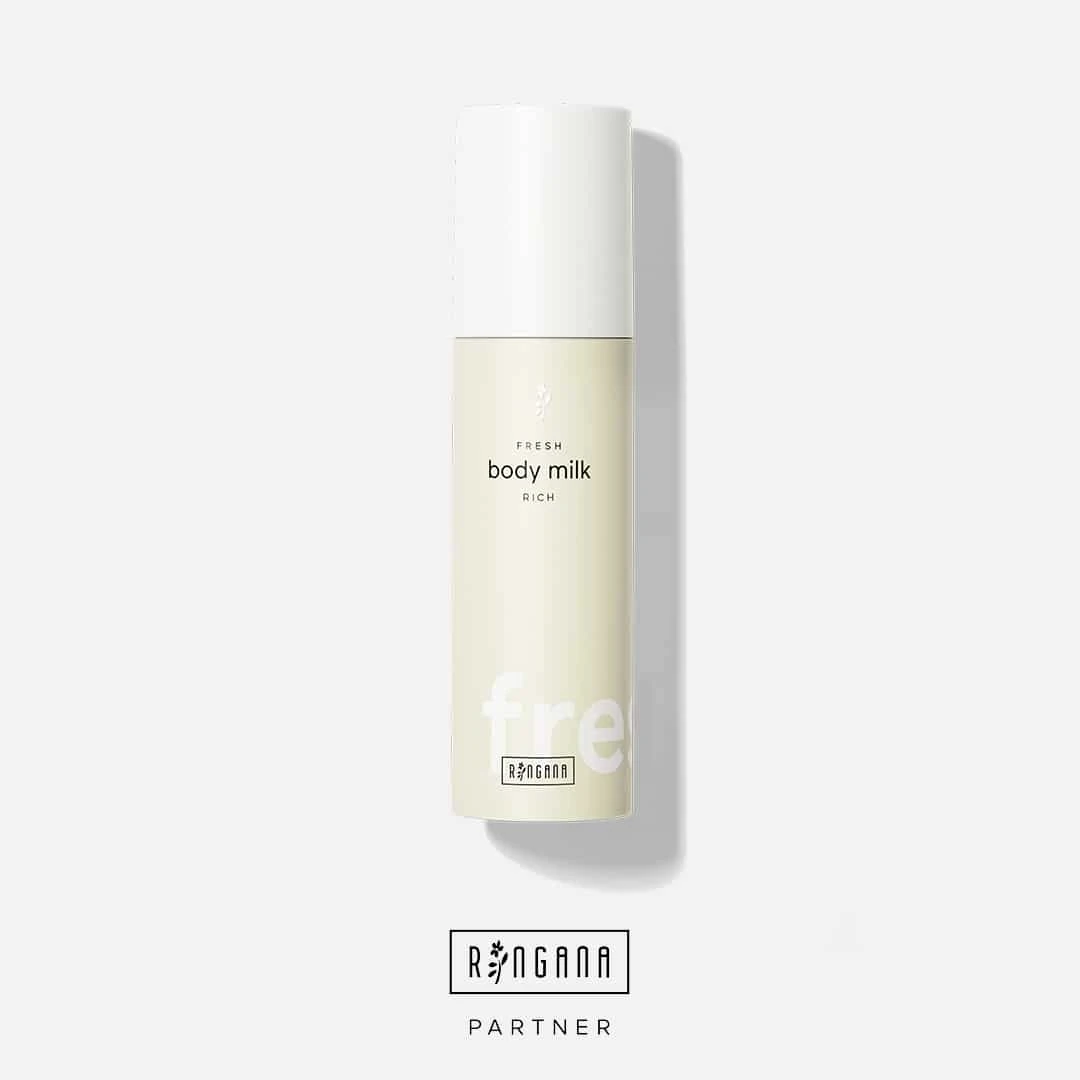
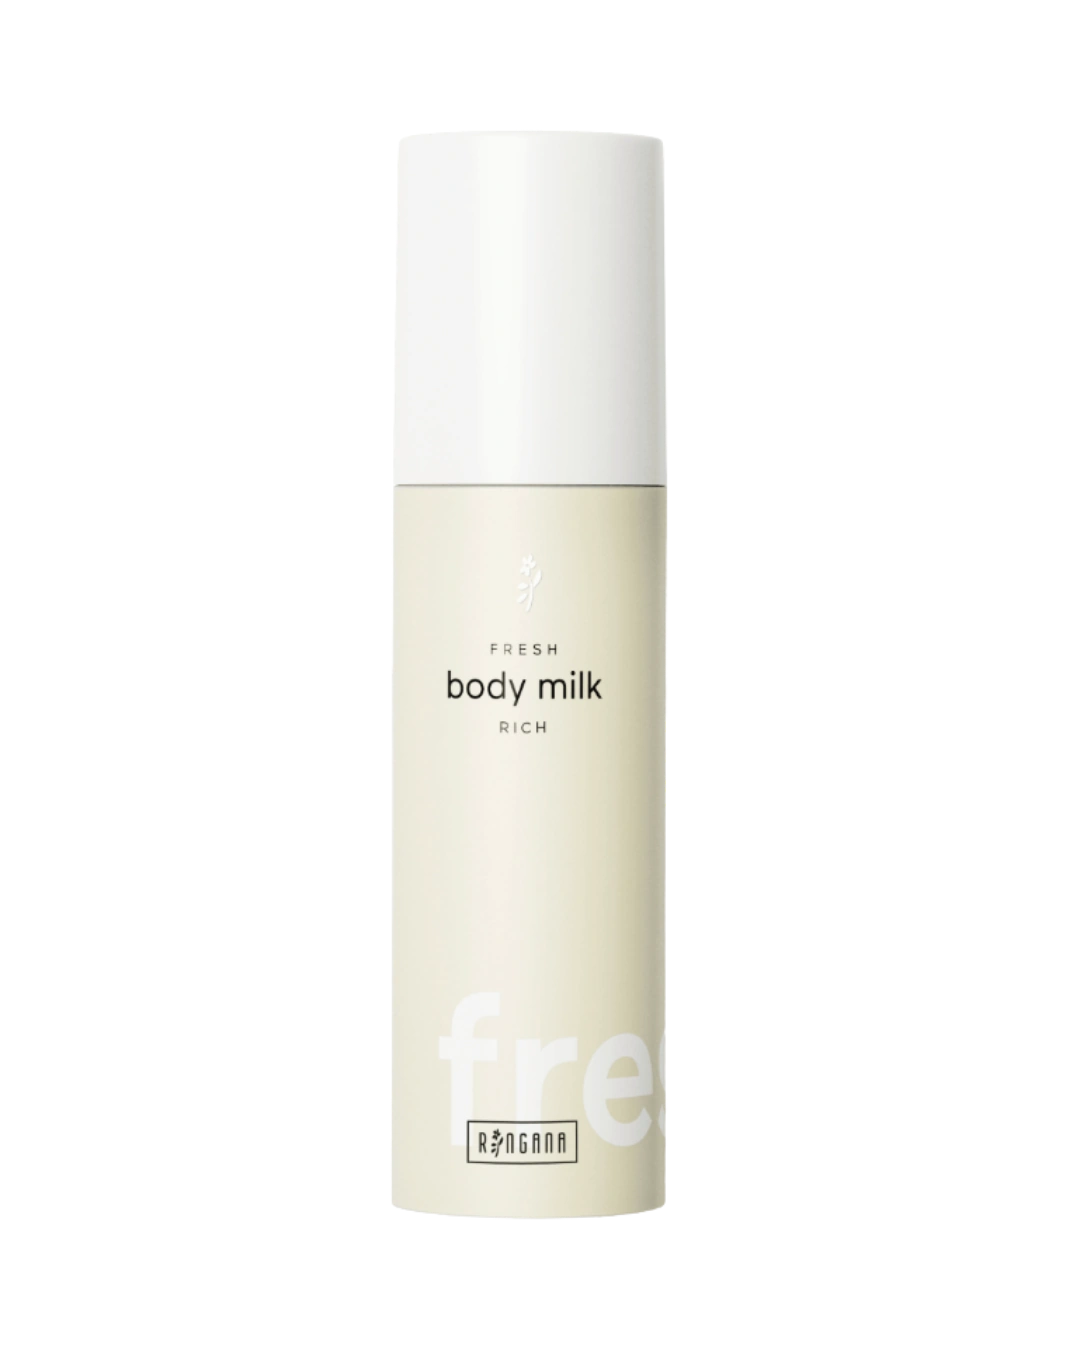
Update landing pages — 2026-07-31

Changed region(s): [[0.3667, 0.0917, 0.6417, 0.9778]]

diff --git a/products.html b/products.html
@@ -897,10 +897,9 @@ footer p{font-size:.8rem;opacity:.6;max-width:70ch;margin:0 auto .5rem;}
       <button type="button" class="carousel-btn prev" aria-label="Previous product">&#8249;</button>
       <div class="carousel-viewport">
         <div class="carousel-track" id="carouselTrack">
-
-          <div class="carousel-slide" data-slide="0">
+<div class="carousel-slide" data-slide="0">
             <div class="carousel-shot">
-              <img src="fresh-toner-calm.png?v=5" alt="RINGANA FRESH toner calm" loading="lazy" decoding="async" width="900" height="900">
+              <img src="fresh-toner-calm.png?v=6" alt="RINGANA FRESH toner calm" loading="lazy" decoding="async" width="900" height="900">
             </div>
             <div class="carousel-copy">
               <p class="radar-kicker">FRESH · Toner</p>
@@ -912,9 +911,9 @@ footer p{font-size:.8rem;opacity:.6;max-width:70ch;margin:0 auto .5rem;}
             </div>
           </div>
 
-          <div class="carousel-slide" data-slide="1">
+<div class="carousel-slide" data-slide="1">
             <div class="carousel-shot">
-              <img src="fresh-intensive-hand-cream.png?v=5" alt="RINGANA FRESH intensive hand cream" loading="lazy" decoding="async" width="400" height="900">
+              <img src="fresh-intensive-hand-cream.png?v=6" alt="RINGANA FRESH intensive hand cream" loading="lazy" decoding="async" width="400" height="900">
             </div>
             <div class="carousel-copy">
               <p class="radar-kicker">FRESH · Hand Balm</p>
@@ -926,9 +925,9 @@ footer p{font-size:.8rem;opacity:.6;max-width:70ch;margin:0 auto .5rem;}
             </div>
           </div>
 
-          <div class="carousel-slide" data-slide="2">
+<div class="carousel-slide" data-slide="2">
             <div class="carousel-shot">
-              <img src="fresh-body-milk.jpg?v=5" alt="RINGANA FRESH body milk rich" loading="lazy" decoding="async" width="1080" height="1080">
+              <img src="fresh-body-milk.png?v=7" alt="RINGANA FRESH body milk rich" loading="lazy" decoding="async" width="1080" height="1080">
             </div>
             <div class="carousel-copy">
               <p class="radar-kicker">FRESH · Body Milk</p>
@@ -940,9 +939,9 @@ footer p{font-size:.8rem;opacity:.6;max-width:70ch;margin:0 auto .5rem;}
             </div>
           </div>
 
-          <div class="carousel-slide" data-slide="3">
+<div class="carousel-slide" data-slide="3">
             <div class="carousel-shot">
-              <img src="fresh-after-sun-tan-booster.png?v=5" alt="RINGANA FRESH after sun tan booster" loading="lazy" decoding="async" width="1080" height="1350">
+              <img src="fresh-after-sun-tan-booster.png?v=6" alt="RINGANA FRESH after sun tan booster" loading="lazy" decoding="async" width="1080" height="1350">
             </div>
             <div class="carousel-copy">
               <p class="radar-kicker">FRESH · After Sun</p>
@@ -954,9 +953,9 @@ footer p{font-size:.8rem;opacity:.6;max-width:70ch;margin:0 auto .5rem;}
             </div>
           </div>
 
-          <div class="carousel-slide" data-slide="4">
+<div class="carousel-slide" data-slide="4">
             <div class="carousel-shot">
-              <img src="fresh-deodorant.png?v=5" alt="RINGANA FRESH deodorant" loading="lazy" decoding="async" width="320" height="900">
+              <img src="fresh-deodorant.png?v=6" alt="RINGANA FRESH deodorant" loading="lazy" decoding="async" width="320" height="900">
             </div>
             <div class="carousel-copy">
               <p class="radar-kicker">FRESH · Deodorant</p>
@@ -968,9 +967,9 @@ footer p{font-size:.8rem;opacity:.6;max-width:70ch;margin:0 auto .5rem;}
             </div>
           </div>
 
-          <div class="carousel-slide" data-slide="5">
+<div class="carousel-slide" data-slide="5">
             <div class="carousel-shot">
-              <img src="caps-cerebro.webp?v=5" alt="RINGANA CAPS cerebro" loading="lazy" decoding="async" width="200" height="200">
+              <img src="caps-cerebro.webp?v=6" alt="RINGANA CAPS cerebro" loading="lazy" decoding="async" width="200" height="200">
             </div>
             <div class="carousel-copy">
               <p class="radar-kicker">CAPS · Focus</p>
@@ -982,22 +981,9 @@ footer p{font-size:.8rem;opacity:.6;max-width:70ch;margin:0 auto .5rem;}
             </div>
           </div>
 
-          <div class="carousel-slide" data-slide="6">
+<div class="carousel-slide" data-slide="6">
             <div class="carousel-shot">
-              <img src="caps-move.webp?v=5" alt="RINGANA CAPS move" loading="lazy" decoding="async" width="200" height="200">
-            </div>
-            <div class="carousel-copy">
-              <p class="radar-kicker">CAPS · Mobility</p>
-              <p><strong>CAPS move</strong> brings turmeric, frankincense, MSM, and vitamins D3 &amp; K2 together for joints, bones, and everyday mobility — the kind of body support that matters to a chiropractor's household.</p>
-              <div class="chip-row">
-                <button type="button" class="chip ingredient-chip" data-label="Joints &amp; mobility" data-ingredients="Turmeric extract (curcuRouge™), frankincense extract (AprèsFlex®), MSM, horsetail extract, calcium from algae, vitamins C, D3, and K2." data-why="Turmeric and boswellic acids support joint comfort; MSM and horsetail nourish connective tissue; vitamins D3 and K2 help maintain normal bones and muscle function.">Joints &amp; mobility</button>
-              </div>
-            </div>
-          </div>
-
-          <div class="carousel-slide" data-slide="7">
-            <div class="carousel-shot">
-              <img src="caps-protect.png?v=5" alt="RINGANA CAPS protect" loading="lazy" decoding="async" width="200" height="200">
+              <img src="caps-protect.webp?v=6" alt="RINGANA CAPS protect" loading="lazy" decoding="async" width="200" height="200">
             </div>
             <div class="carousel-copy">
               <p class="radar-kicker">CAPS · Antioxidant</p>
@@ -1009,84 +995,16 @@ footer p{font-size:.8rem;opacity:.6;max-width:70ch;margin:0 auto .5rem;}
             </div>
           </div>
 
-          <div class="carousel-slide" data-slide="8">
+<div class="carousel-slide" data-slide="7">
             <div class="carousel-shot">
-              <img src="caps-beauty-hair.png?v=5" alt="RINGANA CAPS beauty &amp; hair" loading="lazy" decoding="async" width="200" height="200">
+              <img src="drinks-isi.webp?v=6" alt="RINGANA isi" loading="lazy" decoding="async" width="200" height="240">
             </div>
             <div class="carousel-copy">
-              <p class="radar-kicker">CAPS · Beauty &amp; Hair</p>
-              <p><strong>CAPS beauty &amp; hair</strong> supports hair and nails from within — L-carnosine, saw palmetto, hyaluronic acid, and plant extracts in a vegan capsule.</p>
+              <p class="radar-kicker">DRINKS · Relaxation</p>
+              <p><strong>isi</strong> is a little relaxation drink for calm mood in daily life — passionflower, lemon balm, sour cherry, green oats, and ashwagandha to help you switch off and make it easier to wind down. Berry flavour, vegan, free from artificial flavours.</p>
               <div class="chip-row">
-                <button type="button" class="chip ingredient-chip" data-label="L-carnosine · HA · saw palmetto" data-ingredients="L-carnosine, hyaluronic acid, and saw palmetto extract — core actives for hair, nails, and inner beauty support." data-why="When hair and nails are under stress, internal support is part of a complete clean routine.">L-carnosine · HA · saw palmetto</button>
-              </div>
-            </div>
-          </div>
-
-          <div class="carousel-slide" data-slide="9">
-            <div class="carousel-shot">
-              <img src="caps-moodoo.png?v=5" alt="RINGANA CAPS moodoo" loading="lazy" decoding="async" width="200" height="200">
-            </div>
-            <div class="carousel-copy">
-              <p class="radar-kicker">CAPS · Mood</p>
-              <p><strong>CAPS moodoo</strong> supports emotional balance and mental resilience with plant extracts, magnesium, biotin, folate, and B vitamins — especially during stressful seasons.</p>
-              <div class="chip-row">
-                <button type="button" class="chip ingredient-chip" data-label="Plant extracts" data-ingredients="Orange peel extract, schisandra berry extract, ashwagandha root extract, green tea extract, cocoa seed extract, saffron extract, L-theanine, and buckwheat germ powder." data-why="A multi-pathway botanical blend for calm, clarity, and emotional equilibrium over time.">Plant extracts</button>
-                <button type="button" class="chip ingredient-chip" data-label="Magnesium &amp; B vitamins" data-ingredients="Magnesium from seawater, biotin, folate, and B vitamins including B6 and B12." data-why="Magnesium, biotin, and folate contribute to normal psychological function; B6 and B12 support normal nervous system function.">Magnesium &amp; B vitamins</button>
-              </div>
-            </div>
-          </div>
-
-          <div class="carousel-slide" data-slide="10">
-            <div class="carousel-shot">
-              <img src="caps-d-gest.png?v=5" alt="RINGANA CAPS d-gest" loading="lazy" decoding="async" width="200" height="200">
-            </div>
-            <div class="carousel-copy">
-              <p class="radar-kicker">CAPS · Digestion</p>
-              <p><strong>CAPS d-gest</strong> combines a fermented enzyme complex with digestive botanicals — gut support that actually names what's inside.</p>
-              <div class="chip-row">
-                <button type="button" class="chip ingredient-chip" data-label="Enzyme complex" data-ingredients="Fermented enzyme complex with amylase, lactase, protease, cellulase, and lipase — to help break down carbs, lactose, protein, fibre, and fats." data-why="If digestion is off, everything else feels harder. Enzymes are the practical core of this formula.">Enzyme complex</button>
-                <button type="button" class="chip ingredient-chip" data-label="Artichoke · milk thistle · ginger" data-ingredients="Artichoke leaf/flower extract, milk thistle phospholipid complex, fermented ginger extract, plus dandelion and gentian root extracts." data-why="These botanicals are why d-gest feels like more than a basic digestive enzyme bottle.">Artichoke · milk thistle · ginger</button>
-              </div>
-            </div>
-          </div>
-
-          <div class="carousel-slide" data-slide="11">
-            <div class="carousel-shot">
-              <img src="beyond-spermidine.png?v=5" alt="RINGANA BEYOND spermidine" loading="lazy" decoding="async" width="300" height="300">
-            </div>
-            <div class="carousel-copy">
-              <p class="radar-kicker">BEYOND · Spermidine</p>
-              <p><strong>BEYOND spermidine</strong> supports the body's natural cellular renewal processes with spermidine, PQQ, fucoidan, and antioxidants — beauty and vitality from the cellular level up. One of the BEYOND formulas I'm most curious to try.</p>
-              <div class="chip-row">
-                <button type="button" class="chip ingredient-chip" data-label="Spermidine &amp; PQQ" data-ingredients="Spermidine with PQQ (pyrroloquinoline quinone) and fucoidan in a daily capsule format." data-why="Designed to support cellular housekeeping and regeneration — typically taken as capsules with a morning meal.">Spermidine &amp; PQQ</button>
-              </div>
-            </div>
-          </div>
-
-          <div class="carousel-slide" data-slide="12">
-            <div class="carousel-shot">
-              <img src="beyond-omega.png?v=5" alt="RINGANA BEYOND omega" loading="lazy" decoding="async" width="200" height="200">
-            </div>
-            <div class="carousel-copy">
-              <p class="radar-kicker">BEYOND · Omega</p>
-              <p><strong>BEYOND omega</strong> delivers plant-based EPA and DHA from sustainable algae oil — vegan omega-3 support completed with carotenoids, ubiquinol, and vitamins D3, K2, and E.</p>
-              <div class="chip-row">
-                <button type="button" class="chip ingredient-chip" data-label="Algae EPA &amp; DHA" data-ingredients="Essential omega-3 fatty acids EPA and DHA from sustainable algae oil — without a fish source." data-why="Our bodies can't make these fatty acids on their own, so consistency matters more than a one-time mega-dose.">Algae EPA &amp; DHA</button>
-                <button type="button" class="chip ingredient-chip" data-label="Q10, D3, K2 &amp; E" data-ingredients="Ubiquinol (coenzyme Q10), natural carotenoids, and vitamins D3, K2, and E alongside the algae oil." data-why="Fat-soluble companions support how omega-3s fit into everyday cellular routines — take with a meal that includes healthy fats.">Q10, D3, K2 &amp; E</button>
-              </div>
-            </div>
-          </div>
-
-          <div class="carousel-slide" data-slide="13">
-            <div class="carousel-shot">
-              <img src="beyond-biotic.png?v=5" alt="RINGANA BEYOND biotic" loading="lazy" decoding="async" width="200" height="200">
-            </div>
-            <div class="carousel-copy">
-              <p class="radar-kicker">BEYOND · Biotic</p>
-              <p><strong>BEYOND biotic</strong> supports digestive health with over 21 billion live microorganisms per daily dose from ten probiotic strains, paired with riboflavin, vitamin D3, and vitamin B12.</p>
-              <div class="chip-row">
-                <button type="button" class="chip ingredient-chip" data-label="10 probiotic strains" data-ingredients="Over 21 billion live microorganisms per daily dose from ten highly effective probiotic strains." data-why="Multi-strain formulas cover more ground than a single-species probiotic — diversity helps a resilient microbiome stay resilient.">10 probiotic strains</button>
-                <button type="button" class="chip ingredient-chip" data-label="B2, D3 &amp; B12" data-ingredients="Riboflavin (vitamin B2), vitamin D3, and vitamin B12 alongside the live cultures." data-why="These micronutrients support everyday energy metabolism and wellbeing while the probiotics focus on gut flora.">B2, D3 &amp; B12</button>
+                <button type="button" class="chip ingredient-chip" data-label="Calming botanicals" data-ingredients="Passionflower extract, lemon balm leaf extract, sour cherry, green oat extract, ashwagandha root extract, hop blossom extract, and winter linden blossom extract." data-why="A plant mix known for soothing properties — developed to help stressed people switch off in the evening and support a calmer wind-down.">Calming botanicals</button>
+                <button type="button" class="chip ingredient-chip" data-label="L-tryptophan + vitamin C" data-ingredients="L-tryptophan plus natural vitamin C from acerola cherry powder — typically 1 bottle (30 ml) daily, topped up with water." data-why="Liquid food supplement support for calm mood; vitamin C contributes to normal functioning of the nervous system and normal psychological function.">L-tryptophan + vitamin C</button>
               </div>
             </div>
           </div>
@@ -1097,7 +1015,7 @@ footer p{font-size:.8rem;opacity:.6;max-width:70ch;margin:0 auto .5rem;}
       <p class="carousel-chip-hint">Tap + on any chip for ingredients and why they matter</p>
       <div class="carousel-footer">
         <div class="carousel-dots" id="carouselDots" role="tablist" aria-label="Choose product"></div>
-        <span class="carousel-counter" id="carouselCounter" aria-live="polite">1 / 14</span>
+        <span class="carousel-counter" id="carouselCounter" aria-live="polite">1 / 8</span>
       </div>
     </div>
     <p class="radar-foot reveal">Plenty more where these came from. As early-access products land in my hands, I'll share first impressions, ingredient breakdowns, and who each one is actually for — straight to the founding list.</p>
